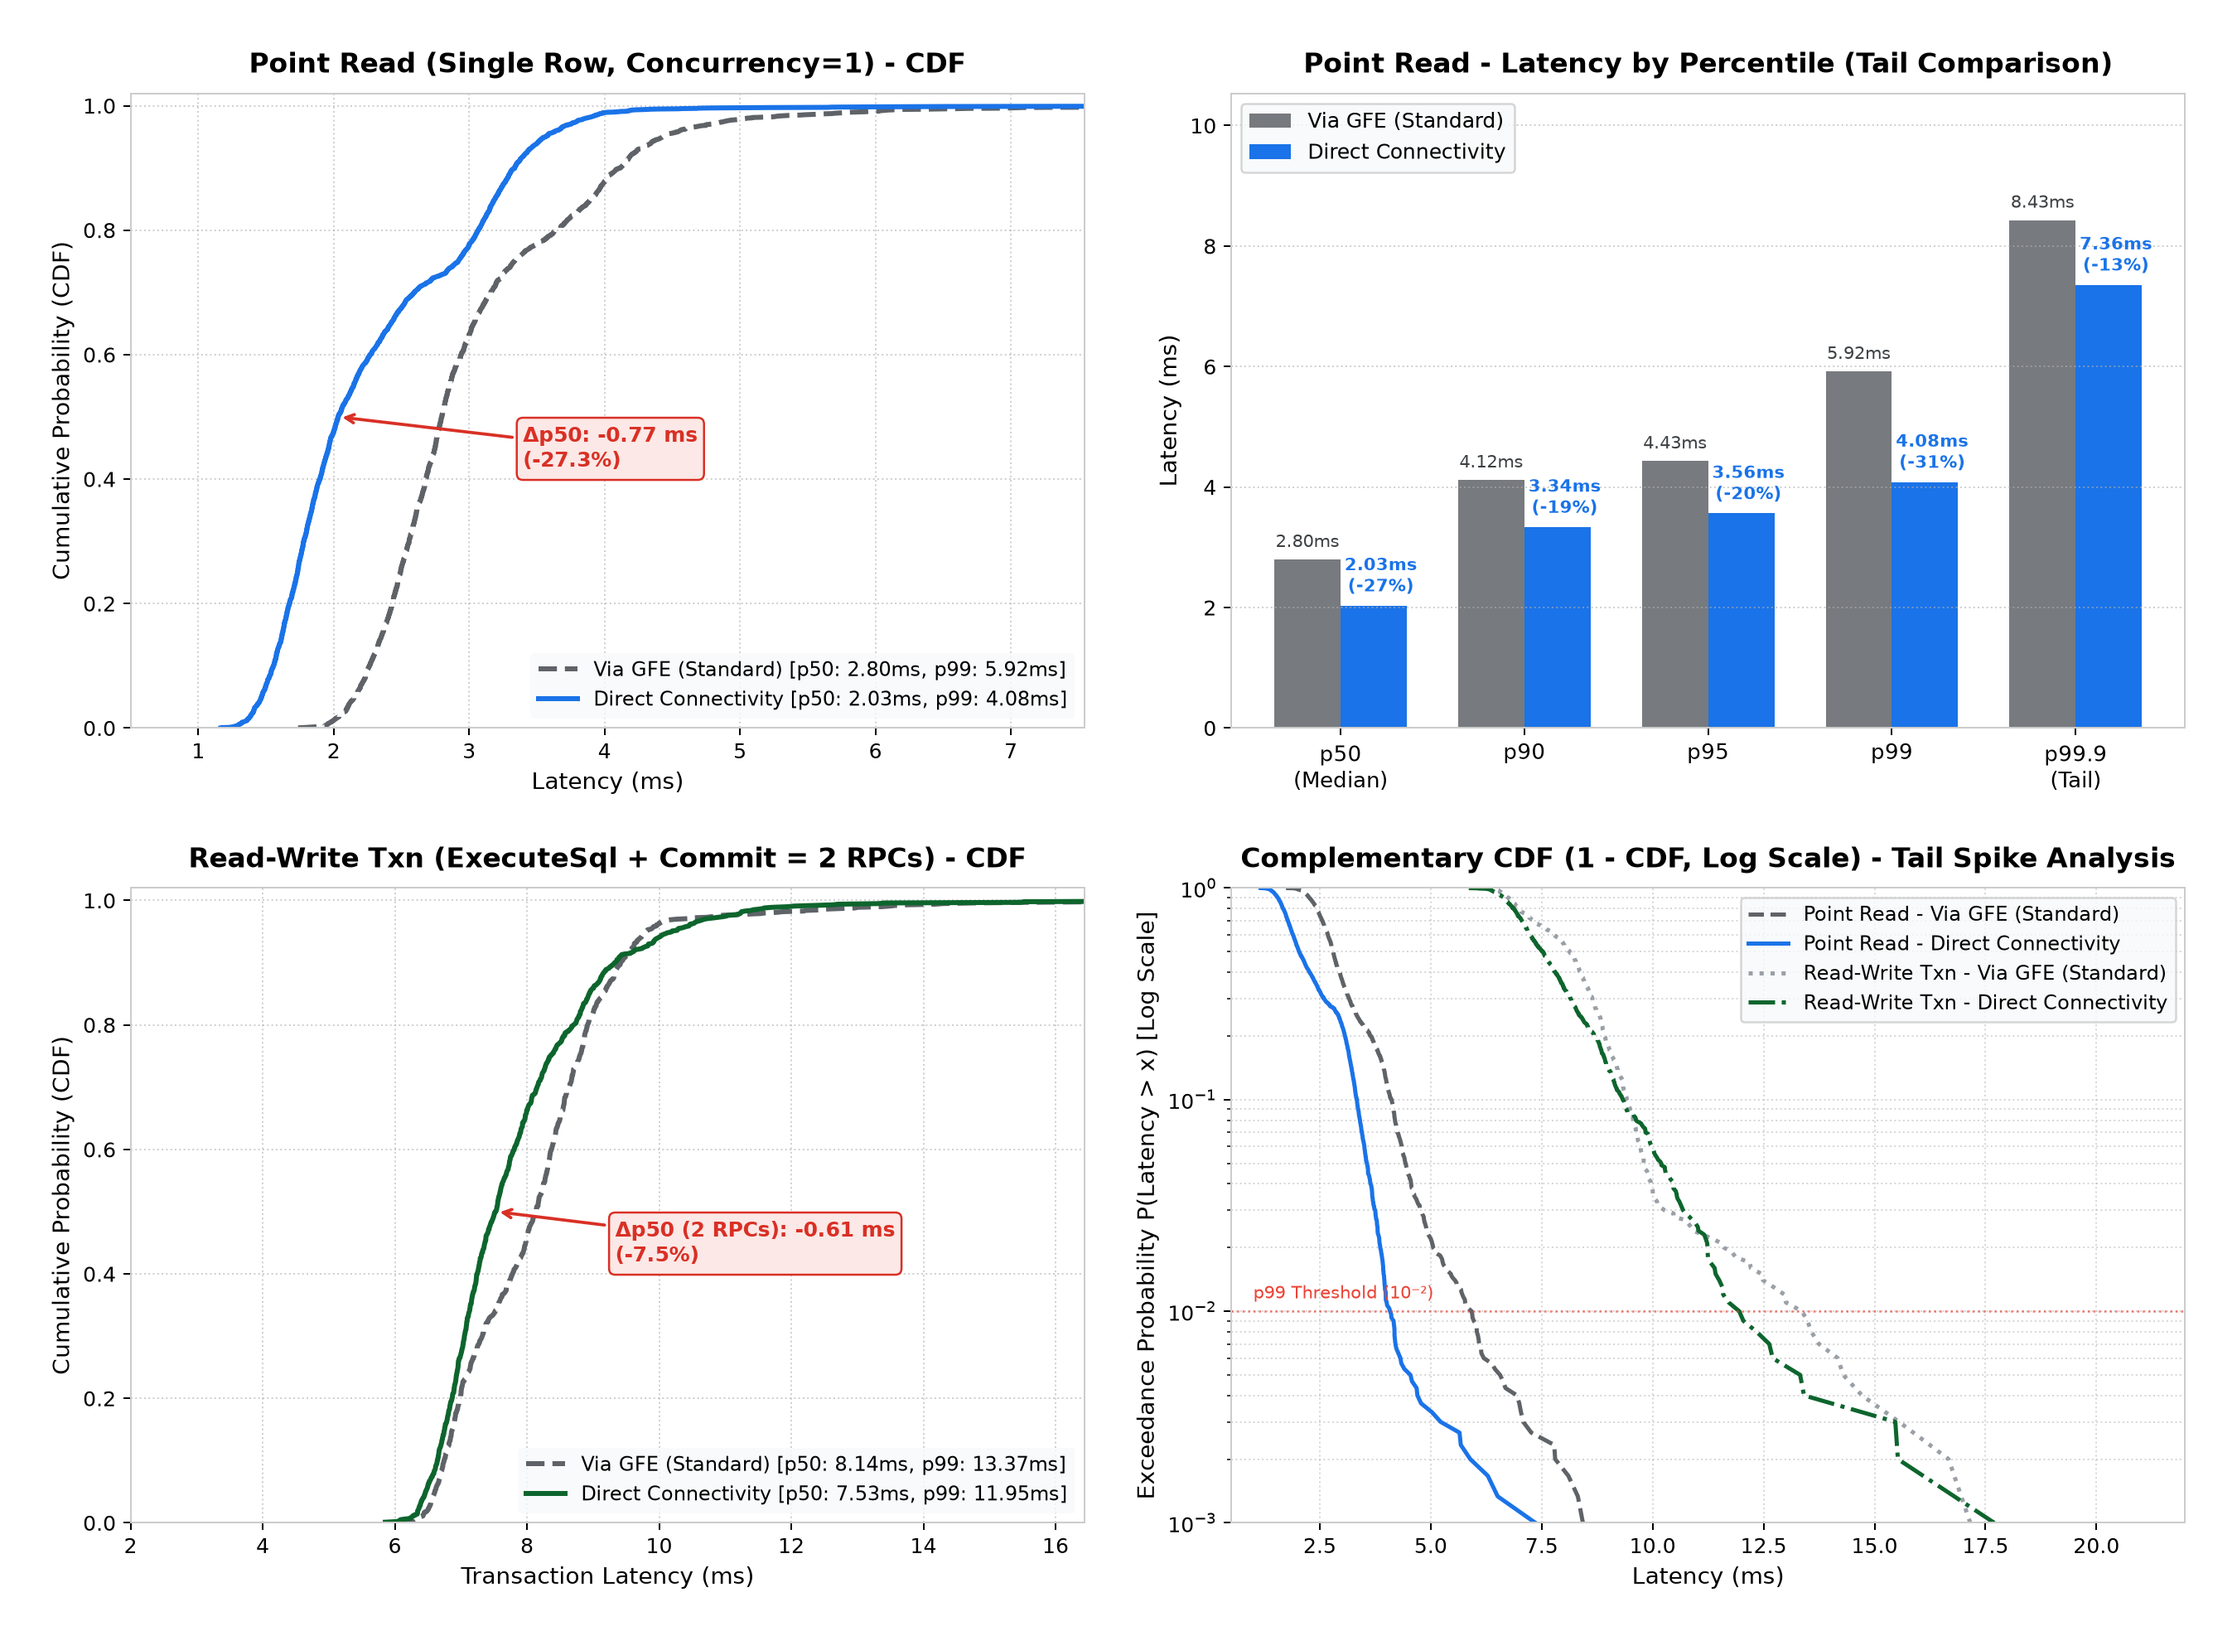
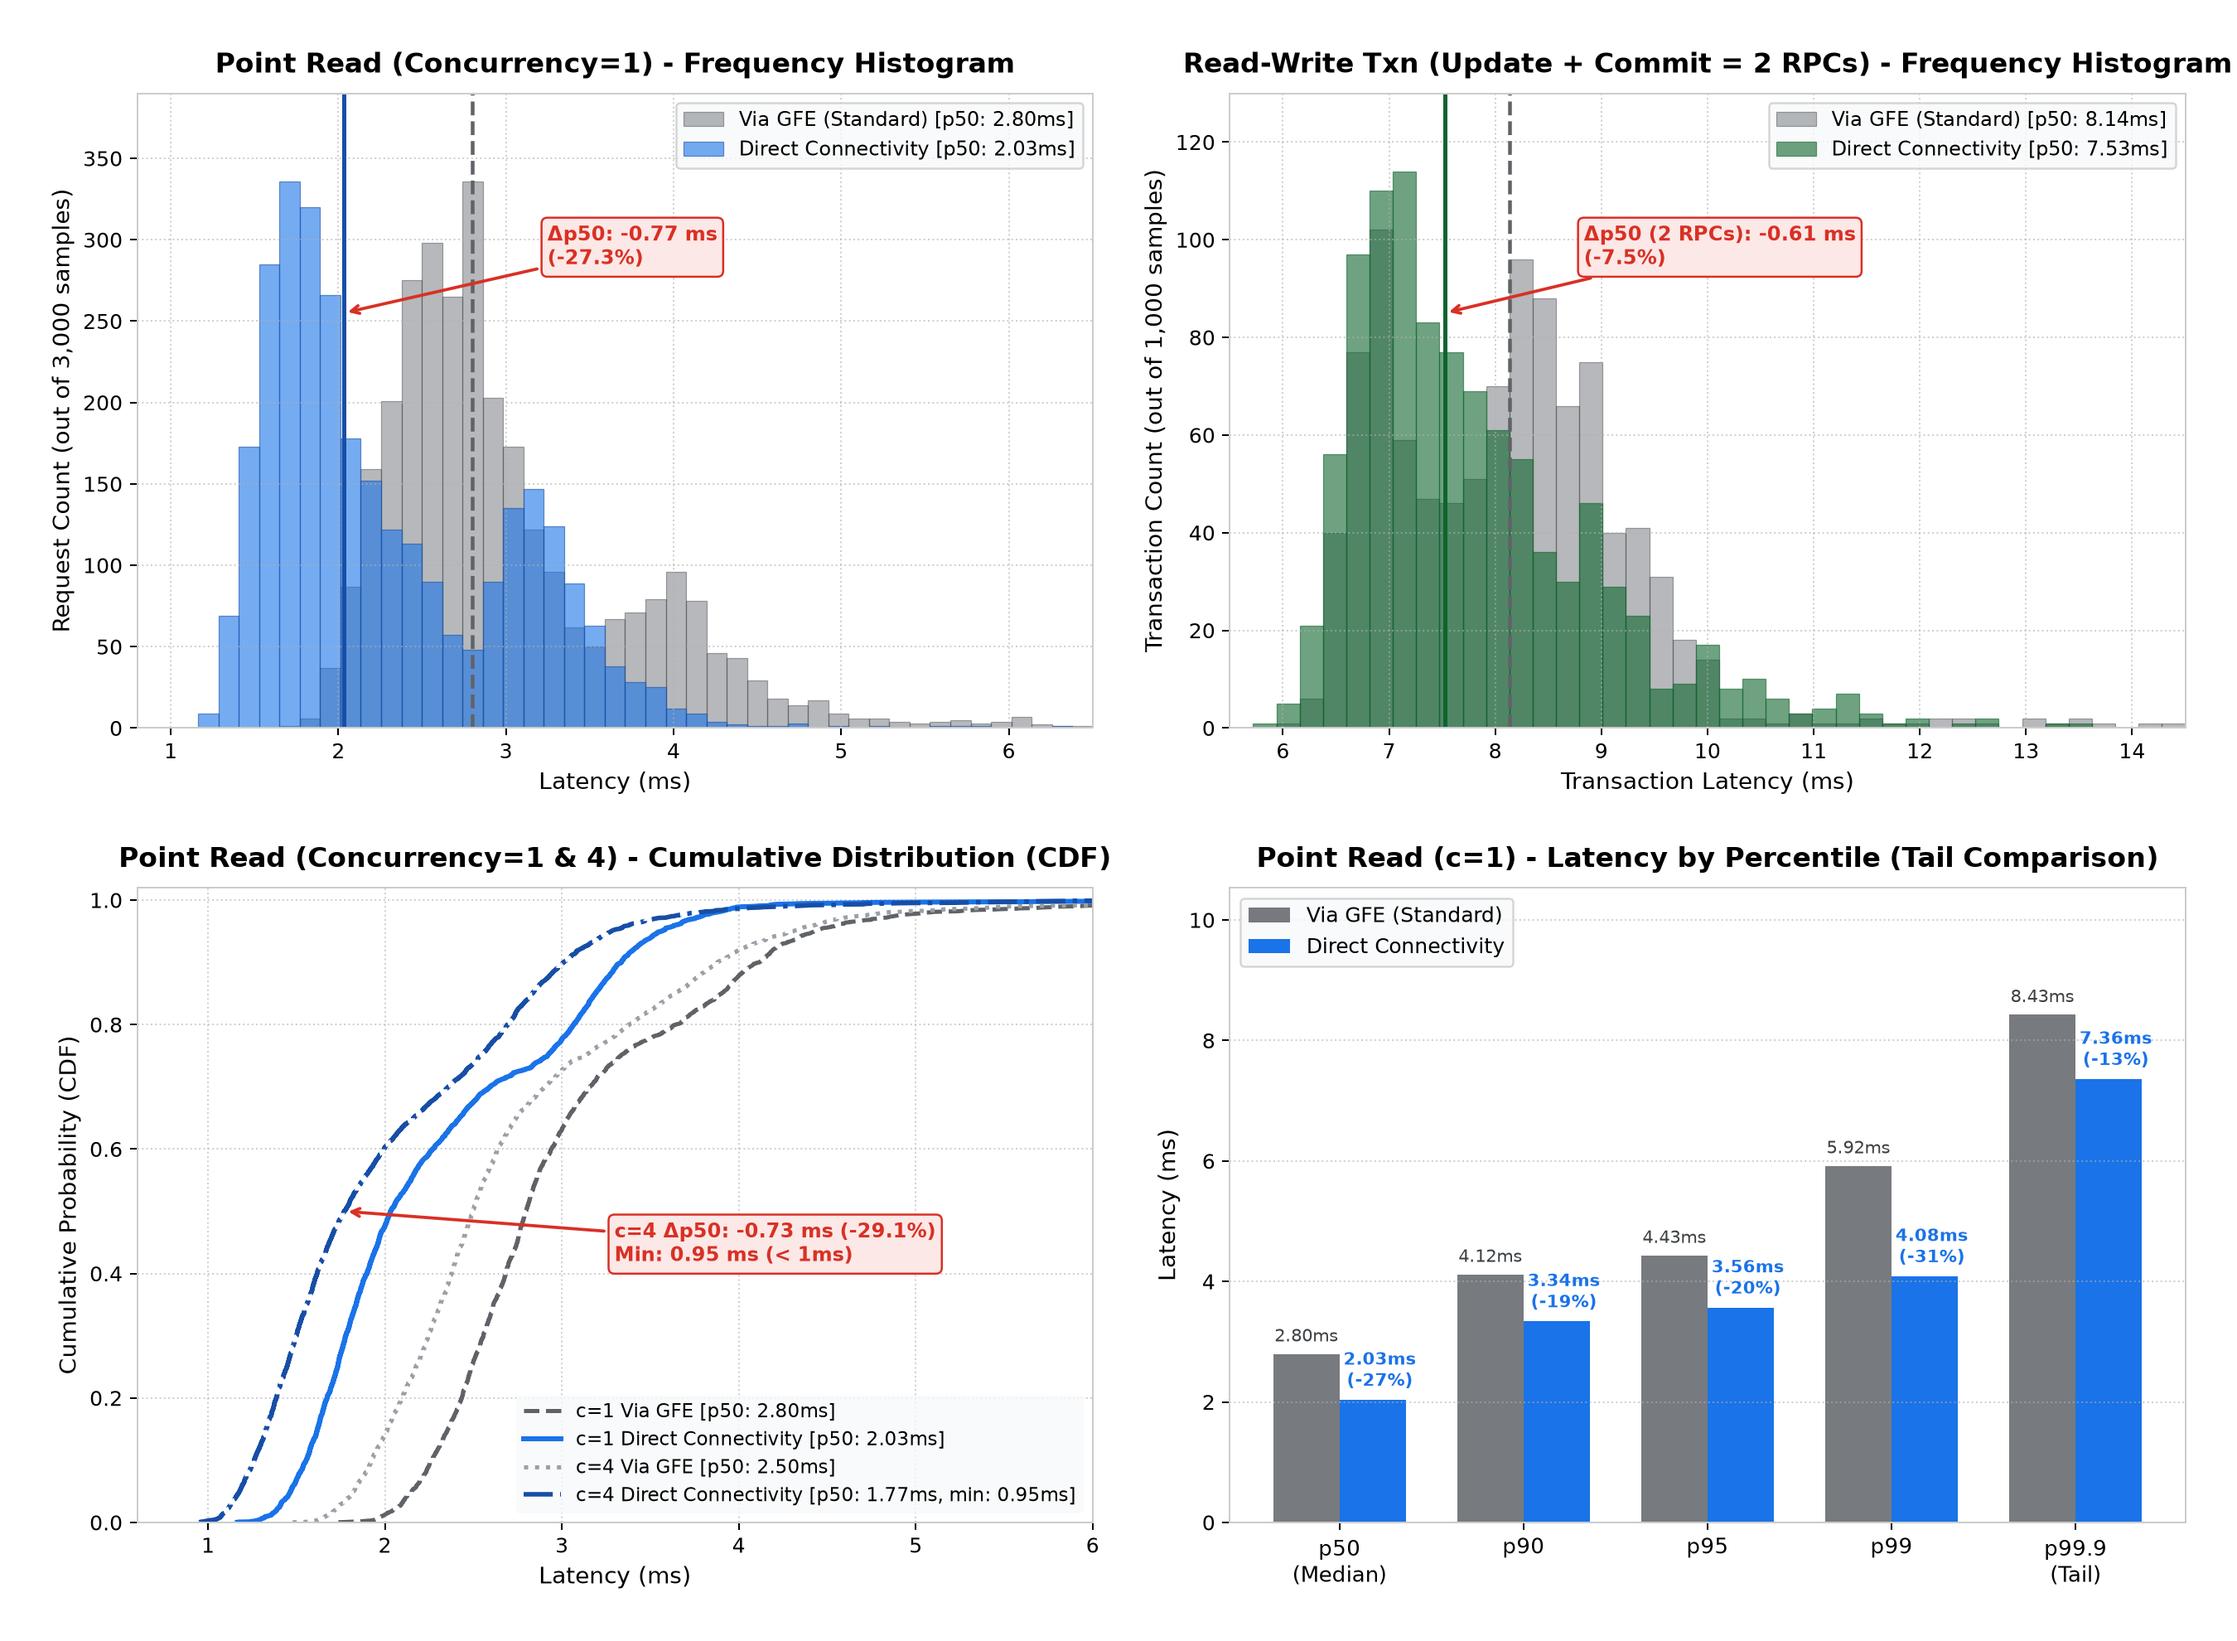
Update latency visualization to hybrid frequency histogram + CDF chart

diff --git a/articles/80f52aa388bf02.md b/articles/80f52aa388bf02.md
@@ -122,22 +122,22 @@ Direct Connectivity の効果を確認するため、東京リージョン（`re
 | | **Direct Connectivity** | **7.84 ms** | 1.34 ms | **5.86 ms** | **7.52 ms** | **9.33 ms** | 10.19 ms | **11.95 ms** | 17.70 ms |
 | | *短縮効果 (差分 / 割合)* | *-0.31 ms (-4%)* | *+0.05 ms* | *-0.18 ms* | ***-0.62 ms (-8%)*** | *-0.09 ms* | *+0.39 ms* | ***-1.41 ms (-11%)*** | *+0.54 ms* |
 
-### グラフによる可視化（CDF とテールレイテンシーの比較）
+### グラフによる可視化（度数分布ヒストグラム・CDF・パーセンタイル比較）
 
-レイテンシーの変化を視覚化する際、**CDF（累積分布関数）** は「分布全体がどの程度低レイテンシー側へシフトしたか」を把握するのに適しています。一方で、通常の線形 Y 軸（0.0〜1.0）の CDF では、**「p99（0.99）〜p99.9（0.999）のテールレイテンシー領域がグラフの上端 1% の領域に集約されてしまい、スパイクの抑制効果が見えにくい」** という側面があります。
+レイテンシーの変化を多角的に把握するため、上段にリクエスト数が集中するボリュームゾーン（山の形状）を直感的に比較できる **度数分布ヒストグラム（Frequency Histogram）**、下段に全体の累積確率を表す **CDF（累積分布関数）** および **主要パーセンタイル別の棒グラフ** を並置して可視化しました。
 
-そのため、本検証では CDF に加えて、**主要パーセンタイル別の棒グラフ** および Y 軸を超過確率 $P(\text{Latency} > x) = 1 - \text{CDF}(x)$ の対数スケールで表した **CCDF（相補累積分布関数）** を並置して可視化しました。
-
-![レイテンシー分布比較（CDF・パーセンタイル比較・対数 CCDF）](/images/spanner_direct_connectivity_latency.png)
+![レイテンシー分布比較（度数分布ヒストグラム・CDF・パーセンタイル比較）](/images/spanner_direct_connectivity_latency.png)
 
 グラフと数値から、以下の 3 つの傾向が読み取れます。
 
-1. **ベースライン RTT の短縮（Point Read の p50 で約 0.73〜0.77 ms 短縮、最小値で 1 ms 未満に到達）**
-   左上パネル（Point Read c=1 の CDF）を見ると、Direct Connectivity（青線）は GFE 経由（灰色破線）に対して曲線全体が左へ約 0.7〜0.8 ms 平行移動しています。中央値（p50）は `2.80 ms` から `2.03 ms` へと **27.5% 短縮** されました。さらに、Go SDK のデフォルトである 4 本の gRPC チャネルを並行稼働させた Concurrency = 4（`PointRead_c4`）では、すべてのチャネルが常時アクティブに保たれることで p50 が `2.50 ms` から **`1.77 ms`（-0.73 ms / 29.2% 短縮）** に達し、最小値（Min）は **`0.95 ms`（1 ミリ秒未満）** を記録しています。同一リージョン内の通信において、GFE プロキシを経由しない分の RTT 短縮が一貫して確認できます。
-2. **テールレイテンシー（p99〜p99.9）の改善**
-   右上パネル（パーセンタイル棒グラフ）および右下パネル（対数 CCDF）に注目すると、Point Read (c=1) の p99 は `5.92 ms` から **`4.08 ms`（-1.84 ms / 31.1% 削減）**、Point Read (c=4) でも p99 が `5.57 ms` から **`4.26 ms`（-1.31 ms / 23.5% 削減）**、p99.9 が `8.14 ms` から **`5.99 ms`（-2.15 ms / 26.4% 削減）** へと改善しています。1,000 PU 環境ではインスタンス自体の処理が安定しているため GFE 経由でも極端なスパイクは少ないものの、Direct Connectivity によってプロキシ通過時のジッターが抑えられ、分布の裾（テール）まで全体的に 1〜2 ms 短縮されていることが分かります。
-3. **Read-Write トランザクション（2 RPC 往復）における短縮効果**
-   左下パネルの Read-Write Transaction（1 トランザクションあたり `ExecuteSql` + `Commit` の 2 RPC 往復）では、p50 が `8.14 ms` から **`7.52 ms`（-0.62 ms / 7.6% 短縮）**、p99 が `13.36 ms` から **`11.95 ms`（-1.41 ms / 10.6% 短縮）** に改善しています。書き込みトランザクションでは Paxos 合意やストレージへの Commit 処理（約 5〜6 ms）が支配的となるため全体の割合としては Point Read より小さくなりますが、RPC 往復のたびに発生するネットワーク通信のオーバーヘッドが着実に削減されていることが確認できます。
+1. **ボリュームゾーン（山のピーク）の左シフトと、マルチゾーン構成特有の「2 つの山」**
+   左上パネル（Point Read c=1 の度数分布ヒストグラム）を見ると、Direct Connectivity（青）は GFE 経由（グレー）に対して分布の山全体が左へ約 0.7〜0.8 ms そのまま移動しています。中央値（p50）は `2.80 ms` から `2.03 ms` へと **27.5% 短縮** されました。
+   また、ヒストグラムの形状に注目すると、Direct Connectivity では **`1.6〜1.8 ms` 付近の大きな山（第 1 ピーク）** と、**`3.1〜3.3 ms` 付近の小さな山（第 2 ピーク）** の 2 峰性（バイモーダル分布）になっていることが分かります（GFE 経由でも `2.6 ms` 付近と `4.0 ms` 付近に 2 つの山が存在します）。これは東京リージョン（`regional-asia-northeast1`）が 3 つのゾーン（`a` / `b` / `c`）で構成されており、クライアント VM（`asia-northeast1-b`）と **同一ゾーン内の Spanner フロントエンドへ到達した通信（第 1 ピーク）** と、**別ゾーンのフロントエンドへ到達した通信（第 2 ピーク：ゾーン間 RTT が加算）** の差が現れているためです。GFE バイパスによって、同一ゾーン・別ゾーンの双方で等しく約 0.8 ms のオーバーヘッドが削減されていることが視覚的に確認できます。
+2. **累積分布（CDF）とテールレイテンシー（p99〜p99.9）の改善**
+   左下パネル（CDF 曲線）を見ると、Go SDK のデフォルトである 4 本の gRPC チャネルを並行稼働させた Concurrency = 4（`c=4 Direct Connectivity`、青の一点鎖線）では、すべてのチャネルが常時アクティブに保たれることで p50 が `2.50 ms` から **`1.77 ms`（-0.73 ms / 29.2% 短縮）** に達し、最小値（Min）は **`0.95 ms`（1 ミリ秒未満）** を記録しています。
+   右下パネル（パーセンタイル棒グラフ）でも、Point Read (c=1) の p99 は `5.92 ms` から **`4.08 ms`（-1.84 ms / 31.1% 削減）**、p99.9 は `8.43 ms` から **`7.36 ms`（-1.07 ms / 12.7% 削減）** へと改善しており、分布の裾（テール）まで一貫して短縮されています。
+3. **Read-Write トランザクション（2 RPC 往復）における度数分布のシフト**
+   右上パネルの Read-Write Transaction（1 トランザクションあたり `ExecuteSql` + `Commit` の 2 RPC 往復）の度数分布ヒストグラムでも、緑色の分布（Direct Connectivity）がグレーの分布（GFE 経由）に対して左へシフトしており、p50 が `8.14 ms` から **`7.52 ms`（-0.62 ms / 7.6% 短縮）**、p99 が `13.36 ms` から **`11.95 ms`（-1.41 ms / 10.6% 短縮）** に改善しています。書き込みトランザクションでは Paxos 合意やストレージへの Commit 処理（約 5〜6 ms）が支配的となるものの、RPC 往復のたびに発生するネットワーク通信のオーバーヘッドが着実に削減されています。
 
 ---
 
